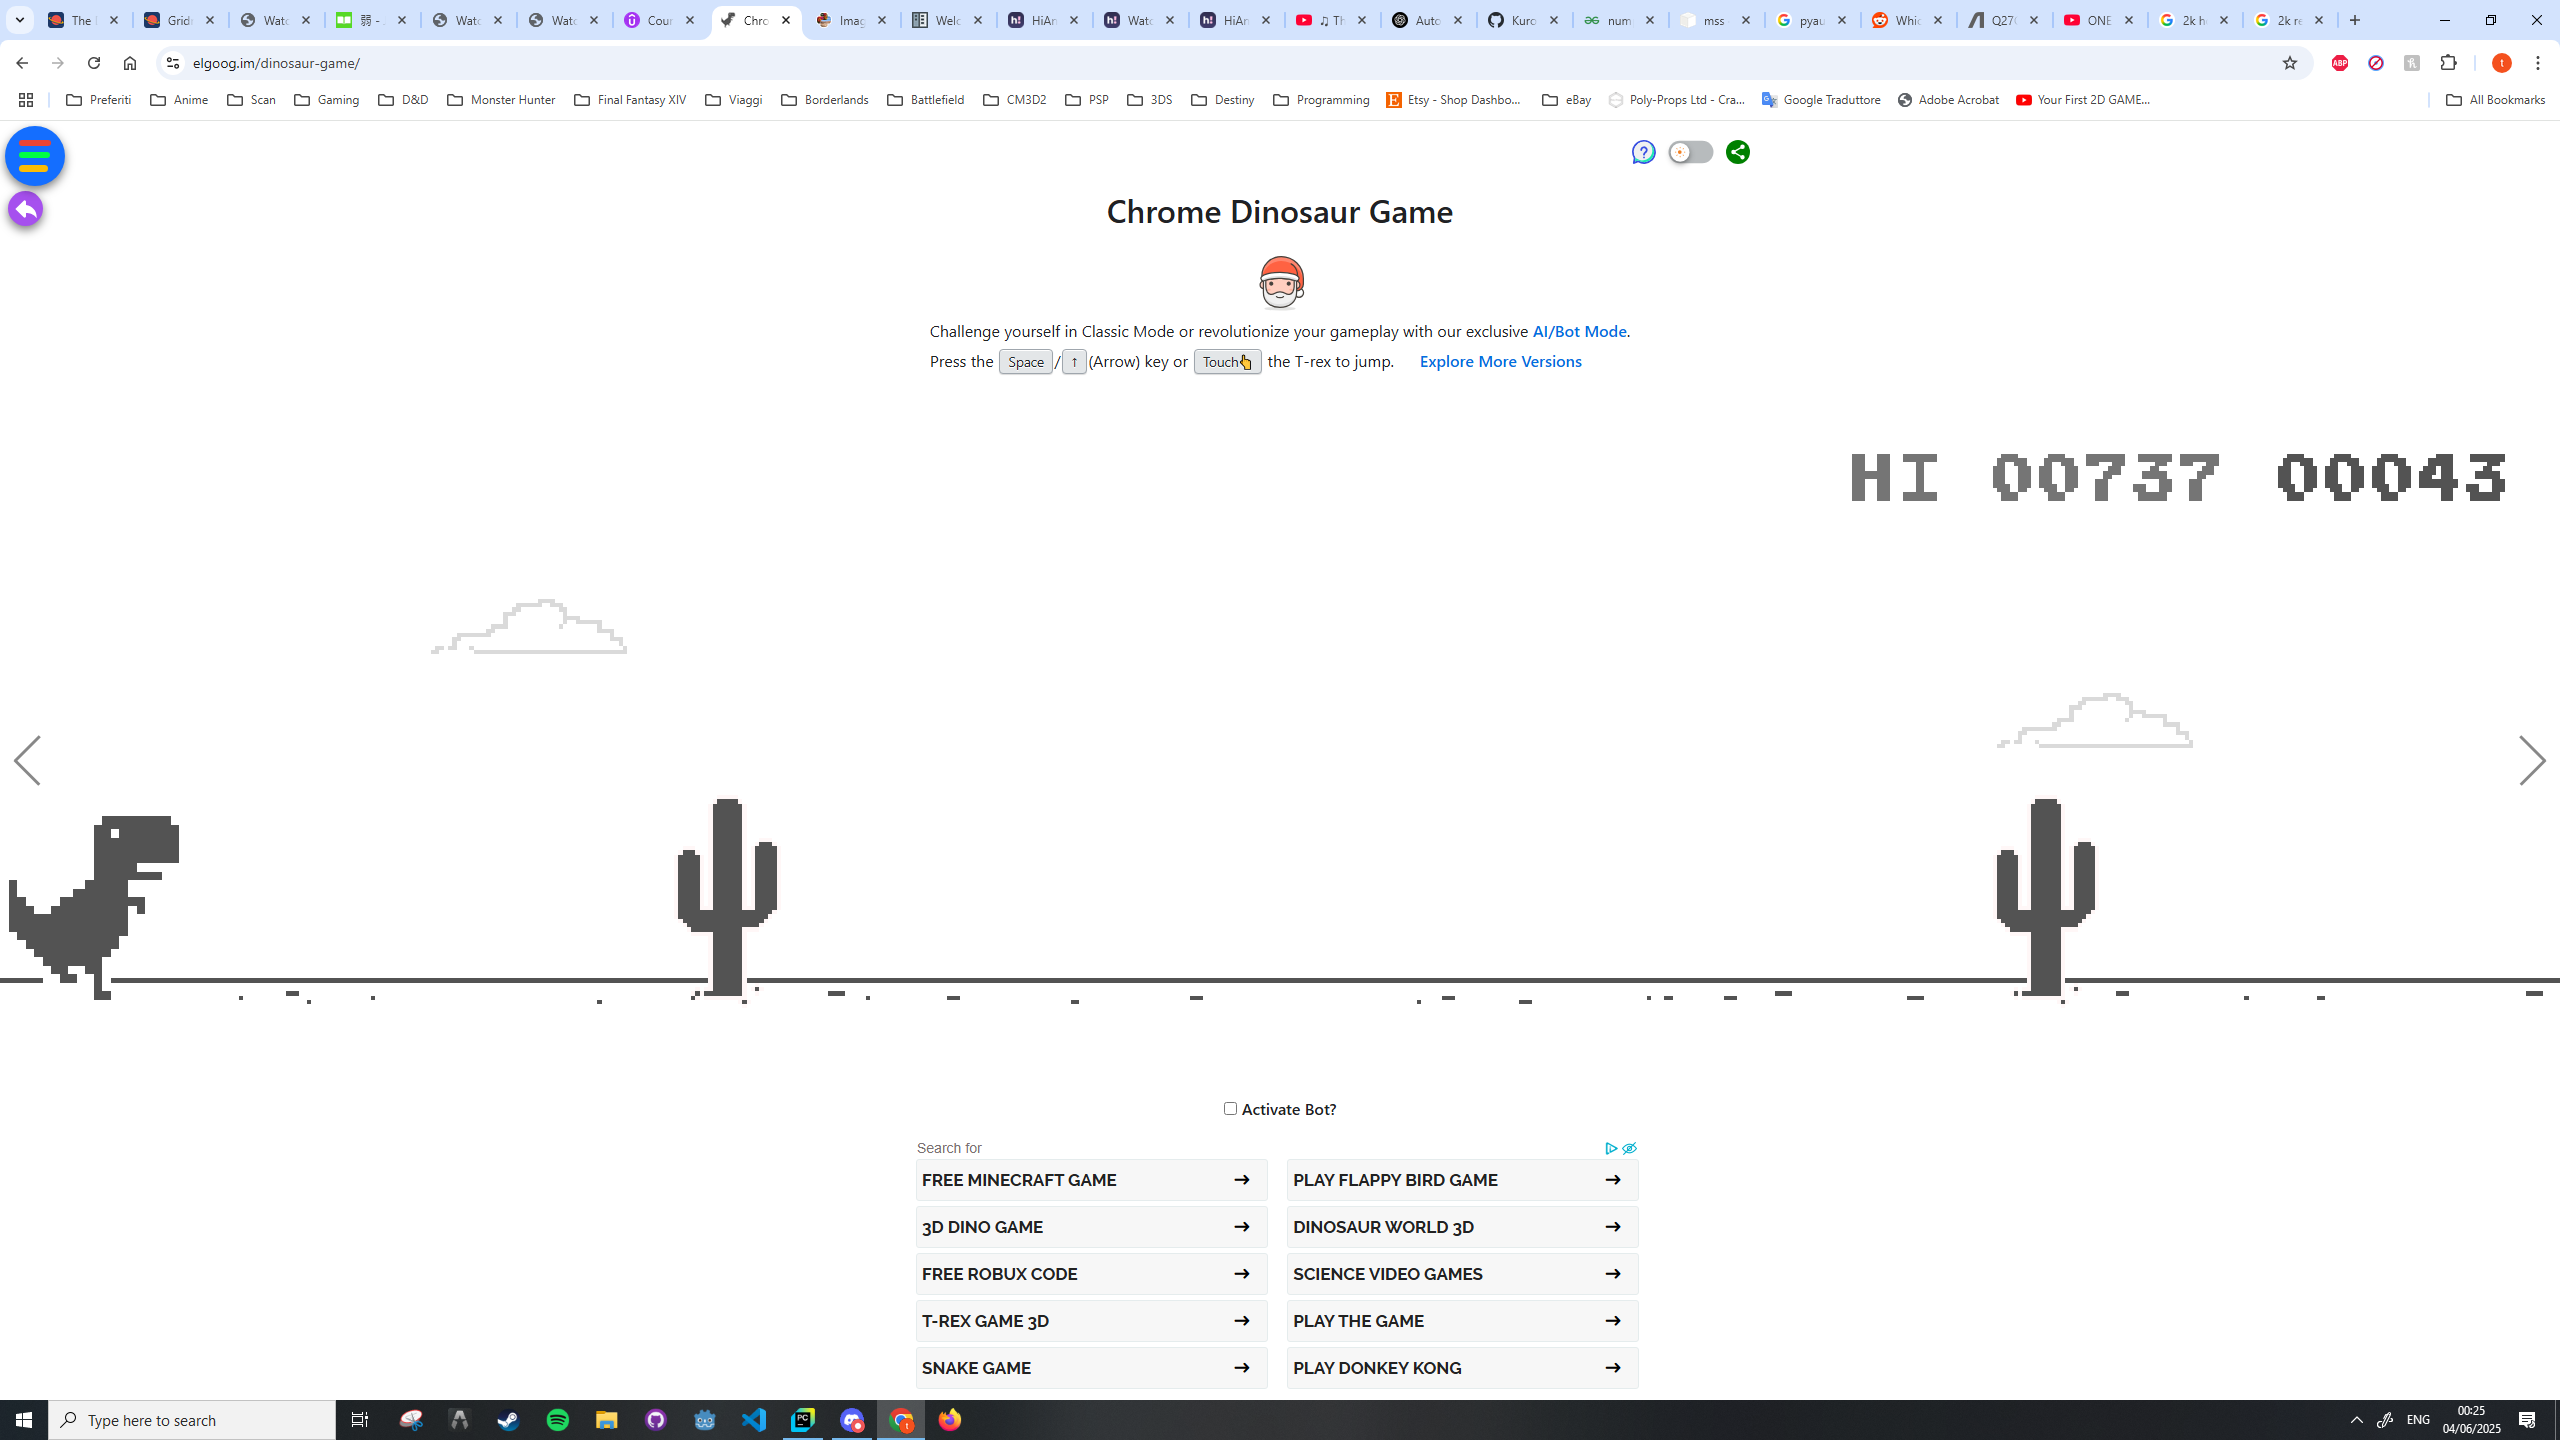
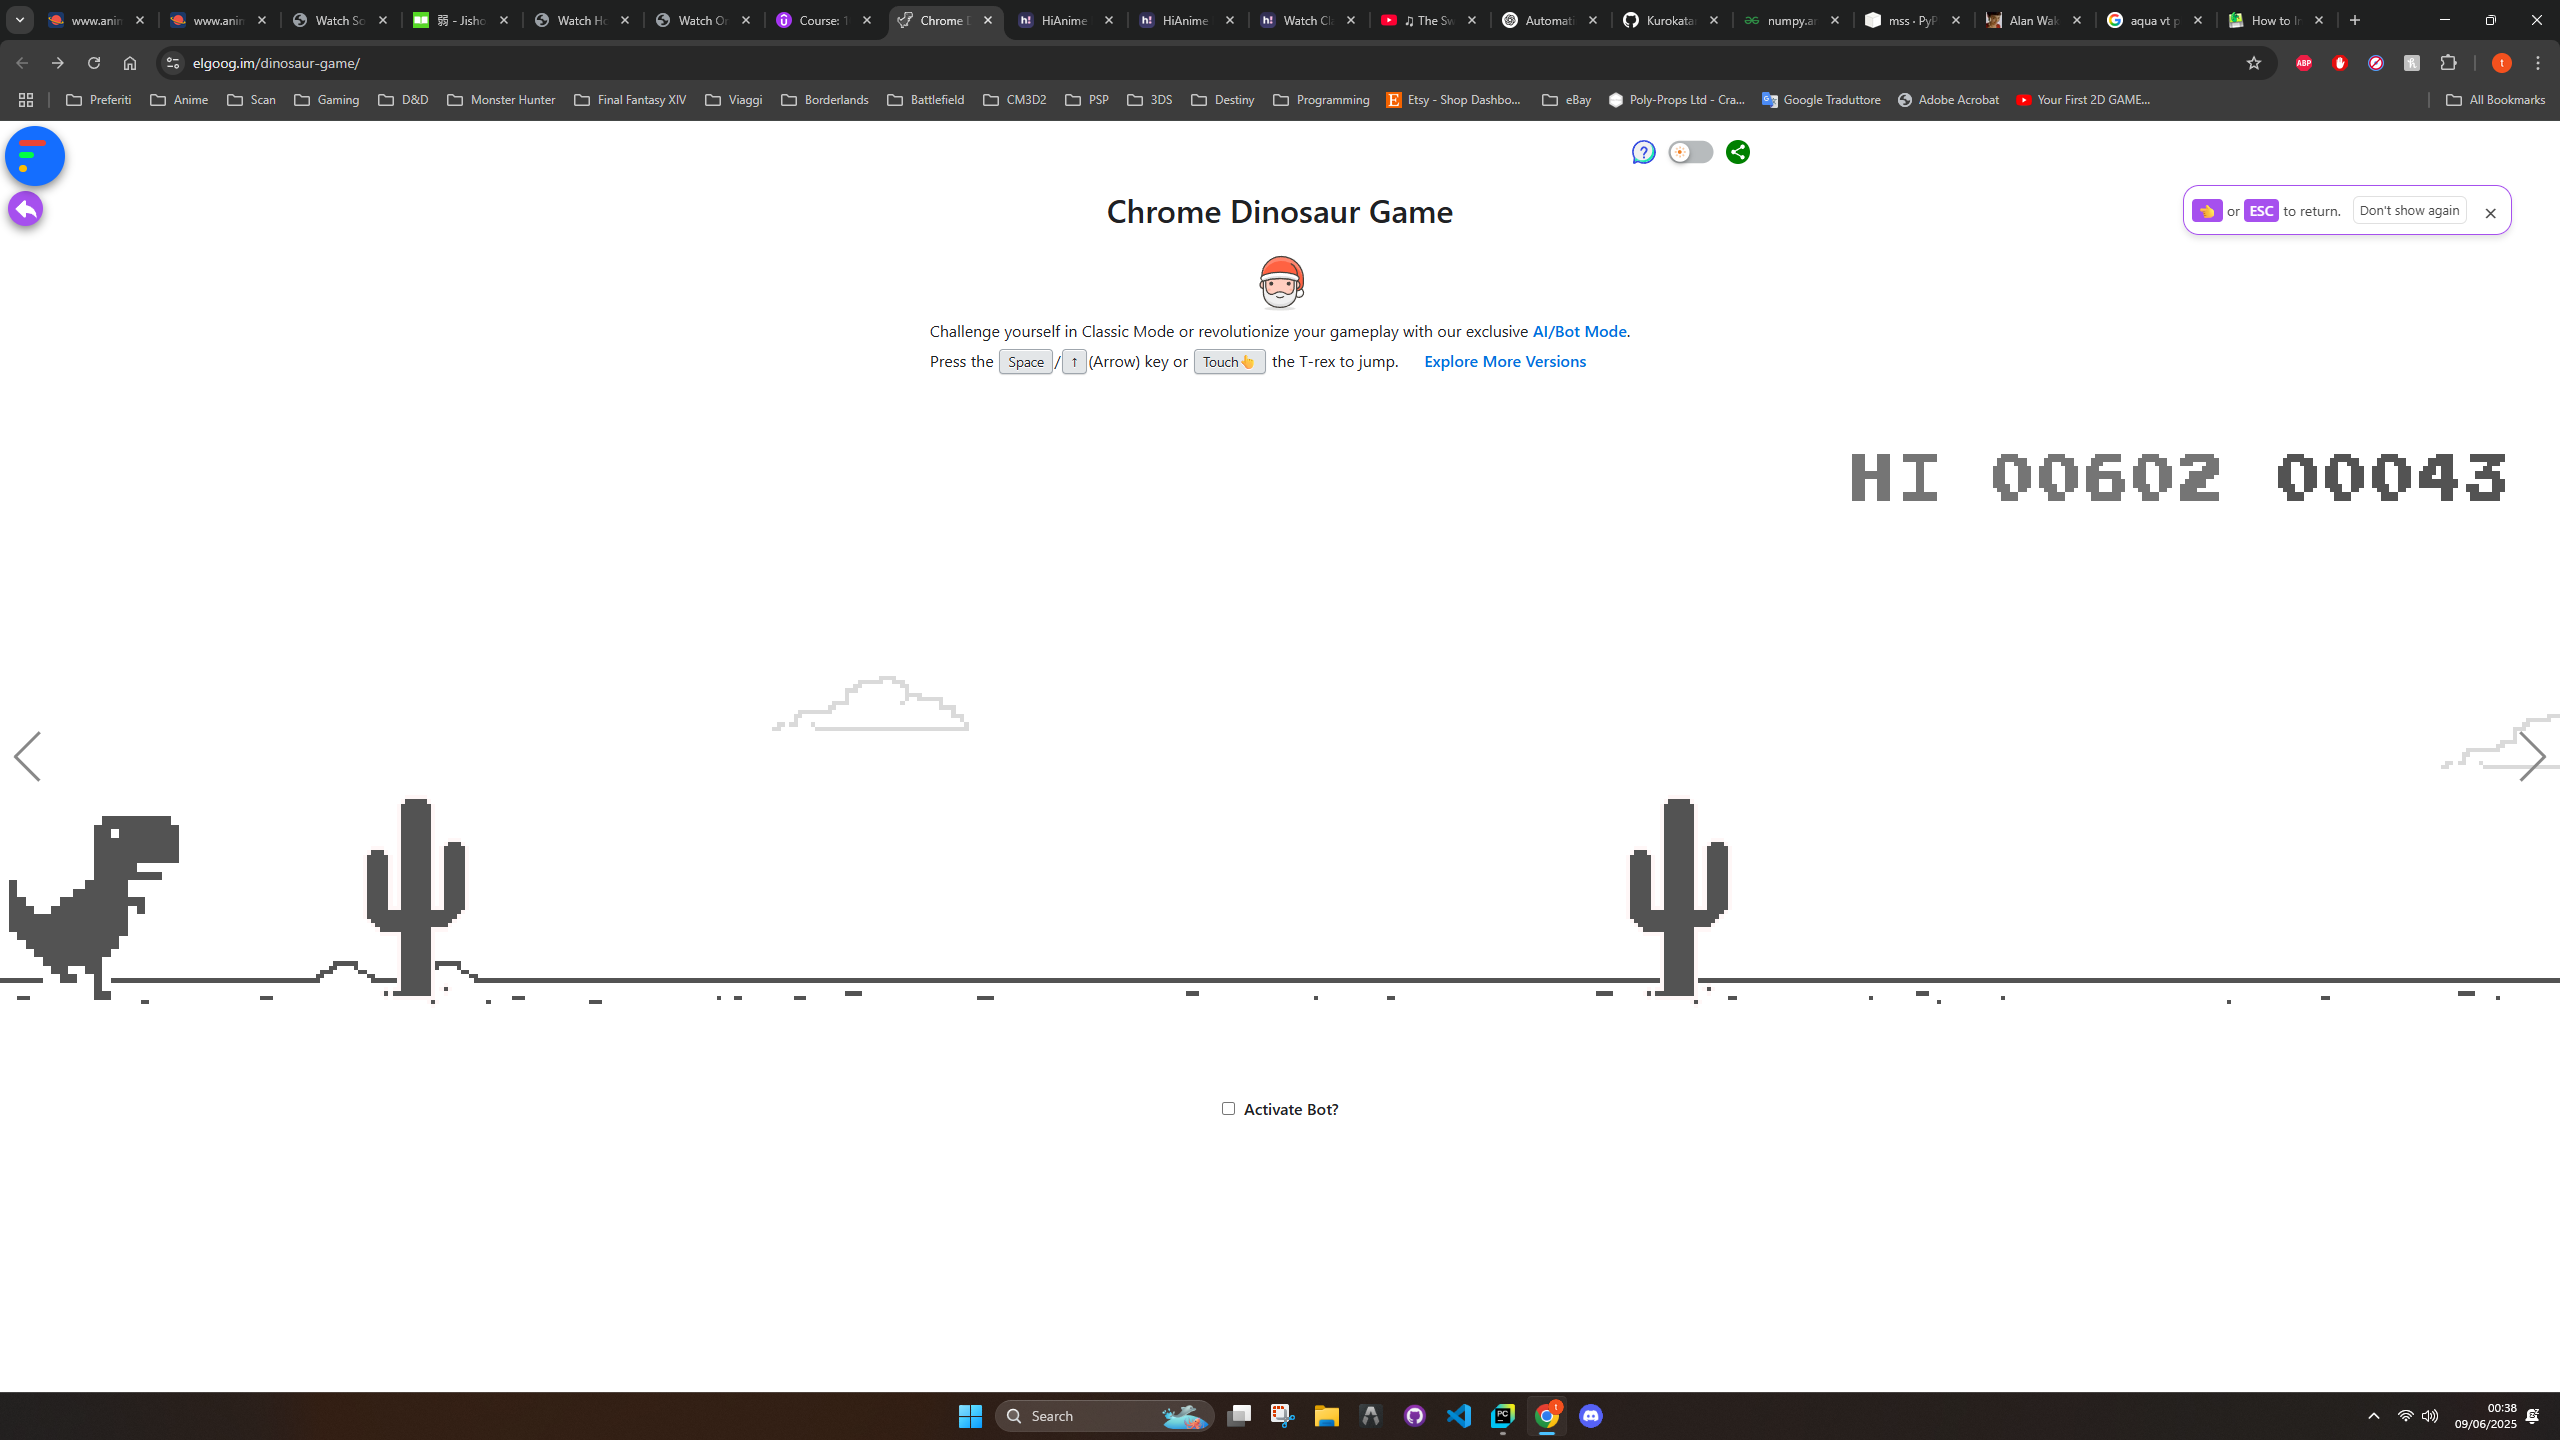
Rework of box coords for detection

diff --git a/main.py b/main.py
@@ -4,12 +4,13 @@ import mss
 import keyboard
 import time
 
-min_y = 700
-min_x = 290
-med_y = 750
-med_x = 400
-max_y = 800
-max_x = 720
+# !!!!!!!!! Y COORDS GO FROM TOP TO BOTTOM !!!!!!!!!
+min_y = 960 #BOTTOM
+min_x = 330
+med_y = 900
+med_x = 370
+max_y = 790 #TOP
+max_x = 550
 
 y_dif = 1
 x_dif = 40
@@ -20,24 +21,25 @@ x_dif = 40
 
 # All commented values are for simpler visualization, but could change (no hardcoding here)
 high_y = 0  # 700 - 700
-high_x_start = 480 - min_x  # 100
+high_x_start = max_x - min_x - x_dif  # 100
 high_x_end = high_x_start + x_dif # 140
 
-med_y = med_y - min_y  # 20
+med_y = min_y - med_y  # 20
 med_x_start = med_x - min_x  # 30
 med_x_end = med_x_start + x_dif # 70
 
-low_y = max_y - min_y - 1  # 99
+low_y = min_y - max_y - 1  # 99
 low_x_start = 0
 low_x_end = x_dif
 
 BOX = {'top': max_y,
        'left': min_x,
        'width': max_x - min_x,
-       'height': max_y - min_y}
+       'height': min_y - max_y}
+
+sct = mss.mss()
 
 def is_obstacle() -> tuple:
-    sct = mss.mss()
     # img_sample = sct.grab(BOX)
     # full_screen_sample = sct.grab((0,0,2560,1440))
     bot_fov = np.array(sct.grab(BOX))[:, :, :3]
@@ -46,7 +48,7 @@ def is_obstacle() -> tuple:
     slice_med = bot_fov[med_y, med_x_start:med_x_end, :]
     slice_low = bot_fov[low_y, low_x_start:low_x_end, :]
 
-    color = np.array(sct.grab({
+    bg_color = np.array(sct.grab({
         'top': 800,
         'left': 10,
         'width': 1,
@@ -54,7 +56,7 @@ def is_obstacle() -> tuple:
     }))[:, :, :3][0,0]
 
     for label, sl in [('high', slice_high), ('med', slice_med), ('low', slice_low)]:
-        if (sl != color).all(axis=1).any():
+        if np.any(np.abs(sl - bg_color).sum(axis=1) > 30):
 
             # img = Image.frombytes('RGB', img_sample.size, img_sample.rgb)
             # screen = Image.frombytes('RGB', full_screen_sample.size, full_screen_sample.rgb)
@@ -67,13 +69,13 @@ def is_obstacle() -> tuple:
 # Makes the dyno jump low
 def short_jump():
     keyboard.press('space')
-    time.sleep(.02)
+    time.sleep(.01)
     keyboard.release('space')
 
 # Makes the dyno jump high
 def long_jump():
     keyboard.press('space')
-    time.sleep(.2)
+    time.sleep(.1)
     keyboard.release('space')
 
 def main():
@@ -81,7 +83,7 @@ def main():
     print('Starting...')
     time.sleep(3)
     while True:
-        start = time.time()
+        # start = time.time()
         if keyboard.is_pressed('q'):
             break
 
@@ -92,12 +94,12 @@ def main():
             n+=1
             print('jump low', n)
             # break
-        elif check_result[0]:
+        elif check_result[0] and check_result[1] in ['med', 'high']:
             long_jump()
             n+=1
             print(f'jump {check_result[1]}', n)
             # break
-        print(f"Frame time: {1000 * (time.time() - start):.2f} ms")
+        # print(f"Frame time: {1000 * (time.time() - start):.2f} ms")
 
 if __name__ == '__main__':
     main()
